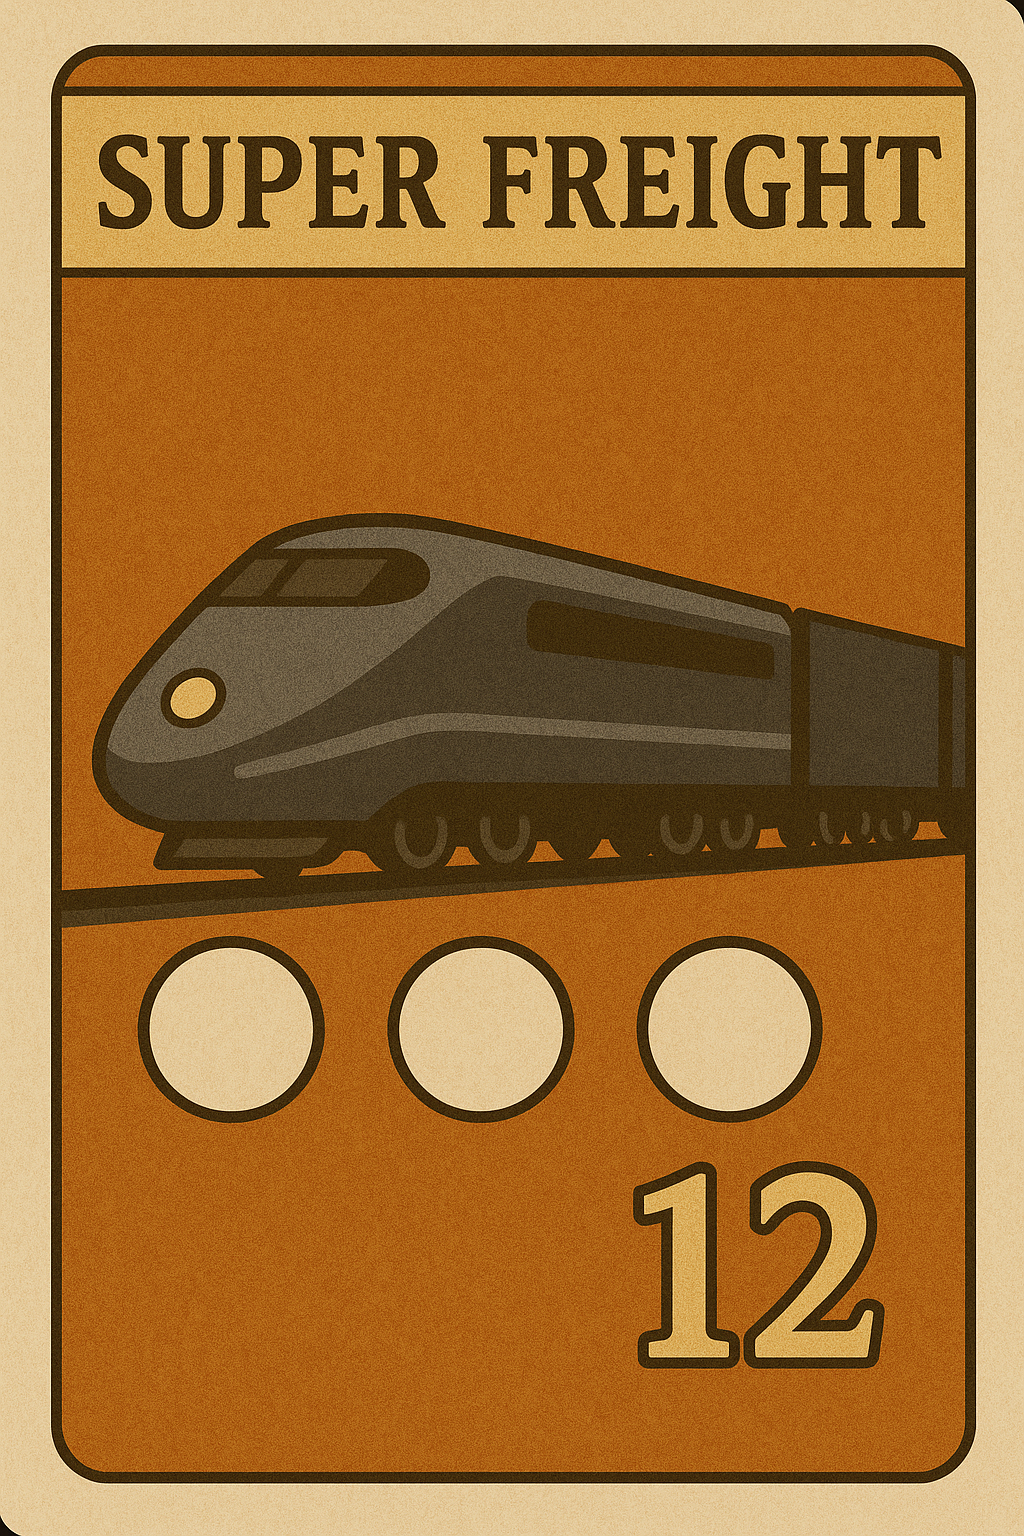
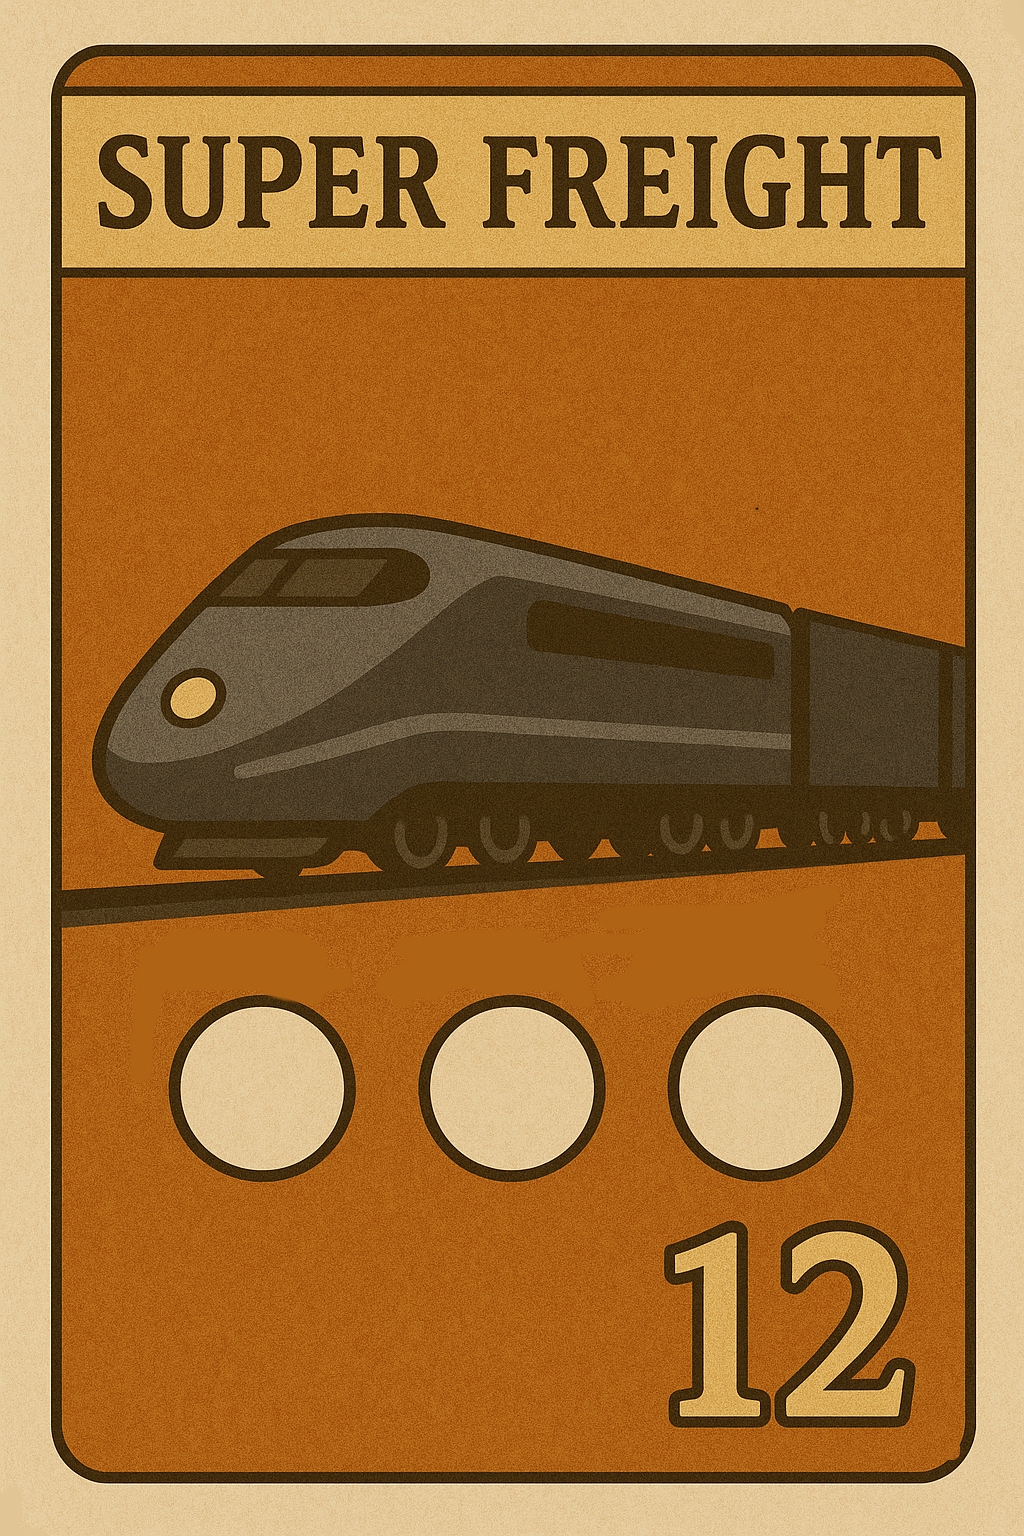
Fix crossgrade persistence and update superfreight art
Keep local player references intact when applying train purchases, preventing later money updates from overwriting trainType. Also refresh superfreight card asset.

Changed region(s): [[0.125, 0.5938, 0.9375, 0.9688], [0.9688, 0.0, 1.0, 0.0312], [0.0, 0.9688, 0.0312, 1.0]]

diff --git a/src/client/services/GameStateService.ts b/src/client/services/GameStateService.ts
@@ -285,10 +285,18 @@ export class GameStateService {
             // Merge into local game state
             const idx = this.gameState.players.findIndex(p => p.id === updatedPlayer.id);
             if (idx >= 0) {
-                this.gameState.players[idx] = {
-                    ...this.gameState.players[idx],
-                    ...updatedPlayer
-                };
+                // IMPORTANT: mutate in-place so any existing references (e.g. PlayerStateService.localPlayer)
+                // stay valid. Replacing the object can cause later updates (like money-only updates)
+                // to send stale trainType back to the server.
+                const existing: any = this.gameState.players[idx];
+                Object.assign(existing, updatedPlayer);
+                if (updatedPlayer.trainState) {
+                    if (existing.trainState) {
+                        Object.assign(existing.trainState, updatedPlayer.trainState);
+                    } else {
+                        existing.trainState = updatedPlayer.trainState;
+                    }
+                }
             }
 
             return true;
